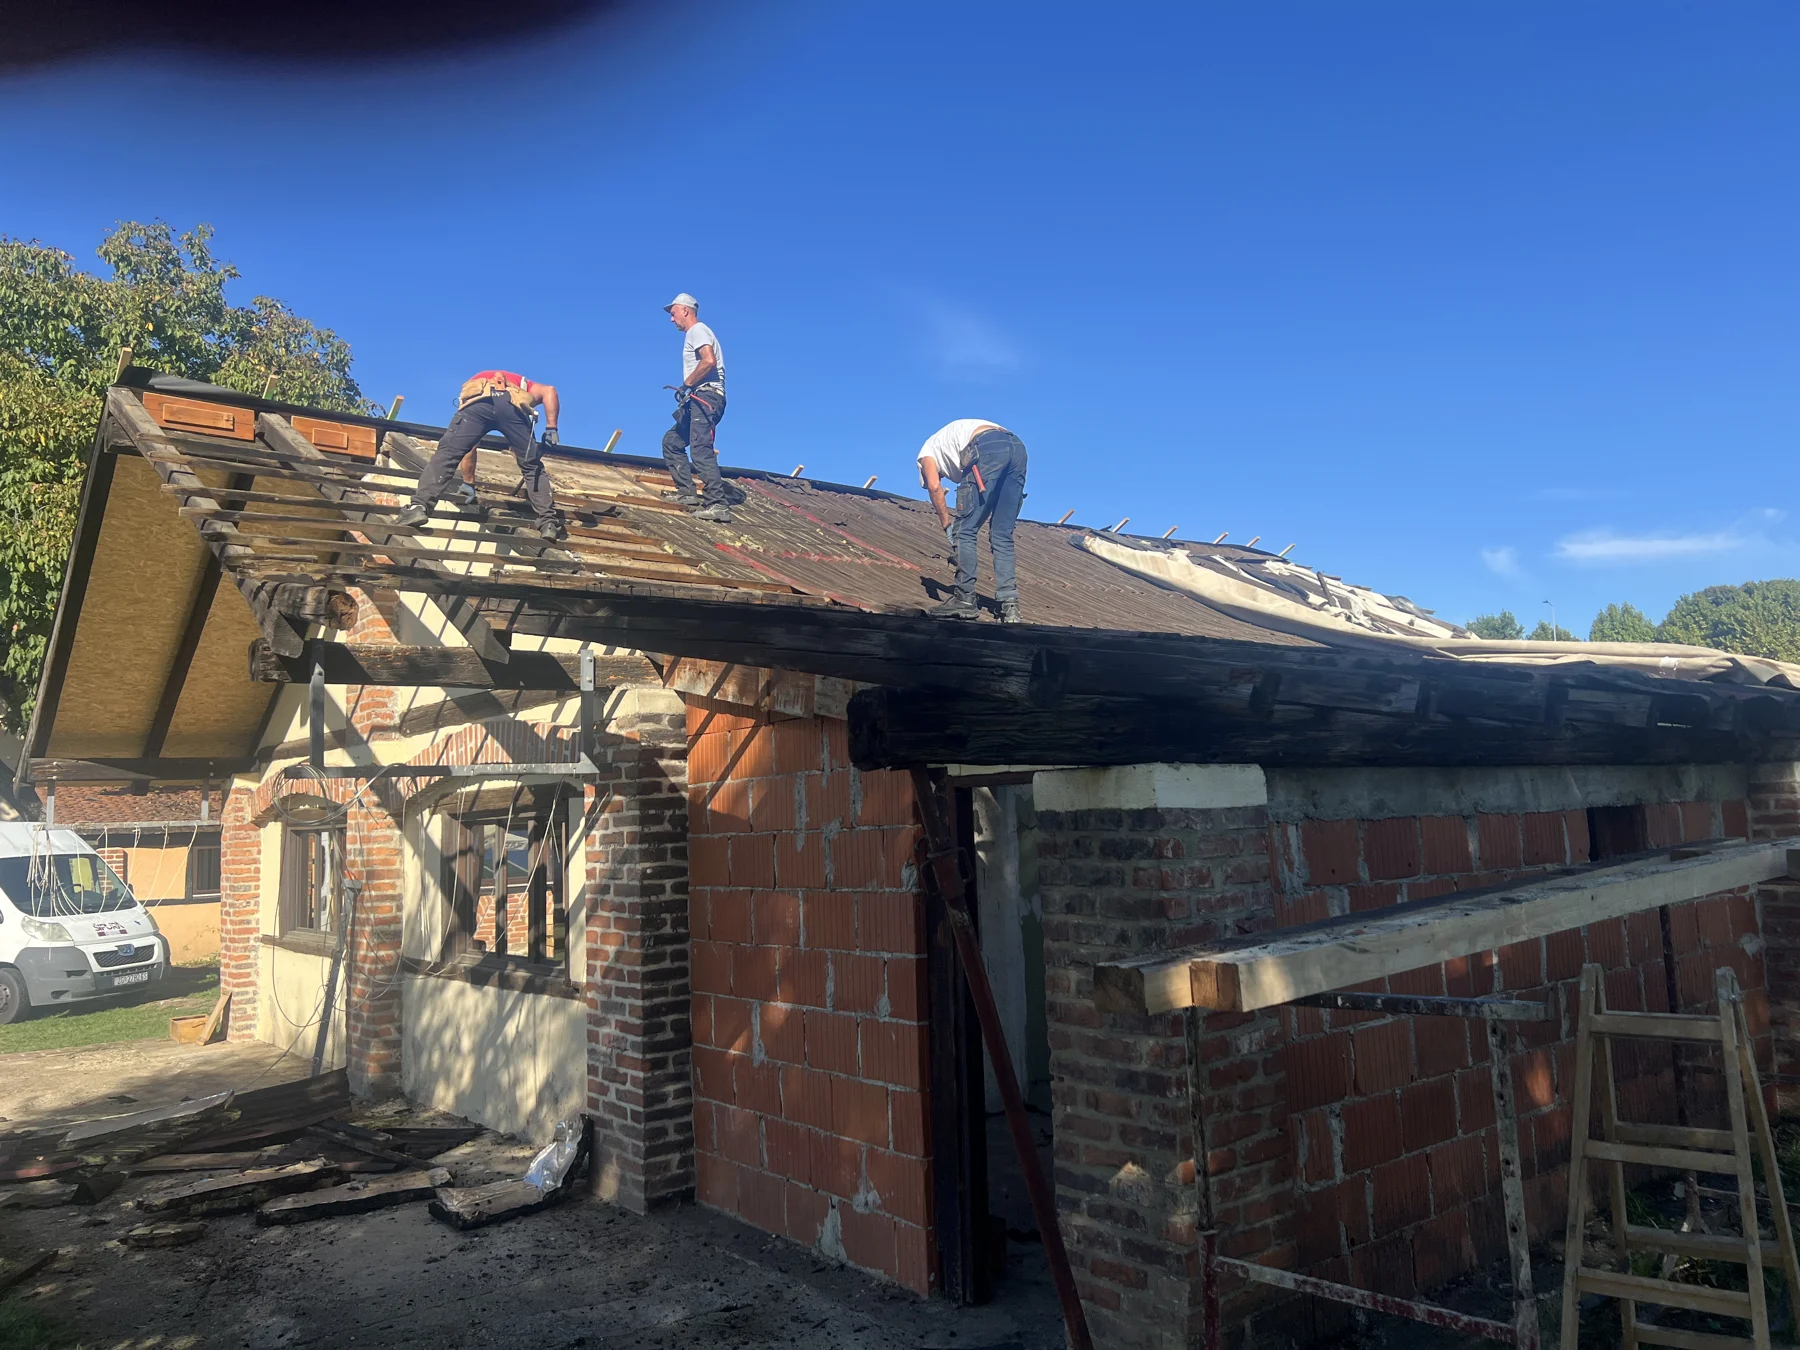
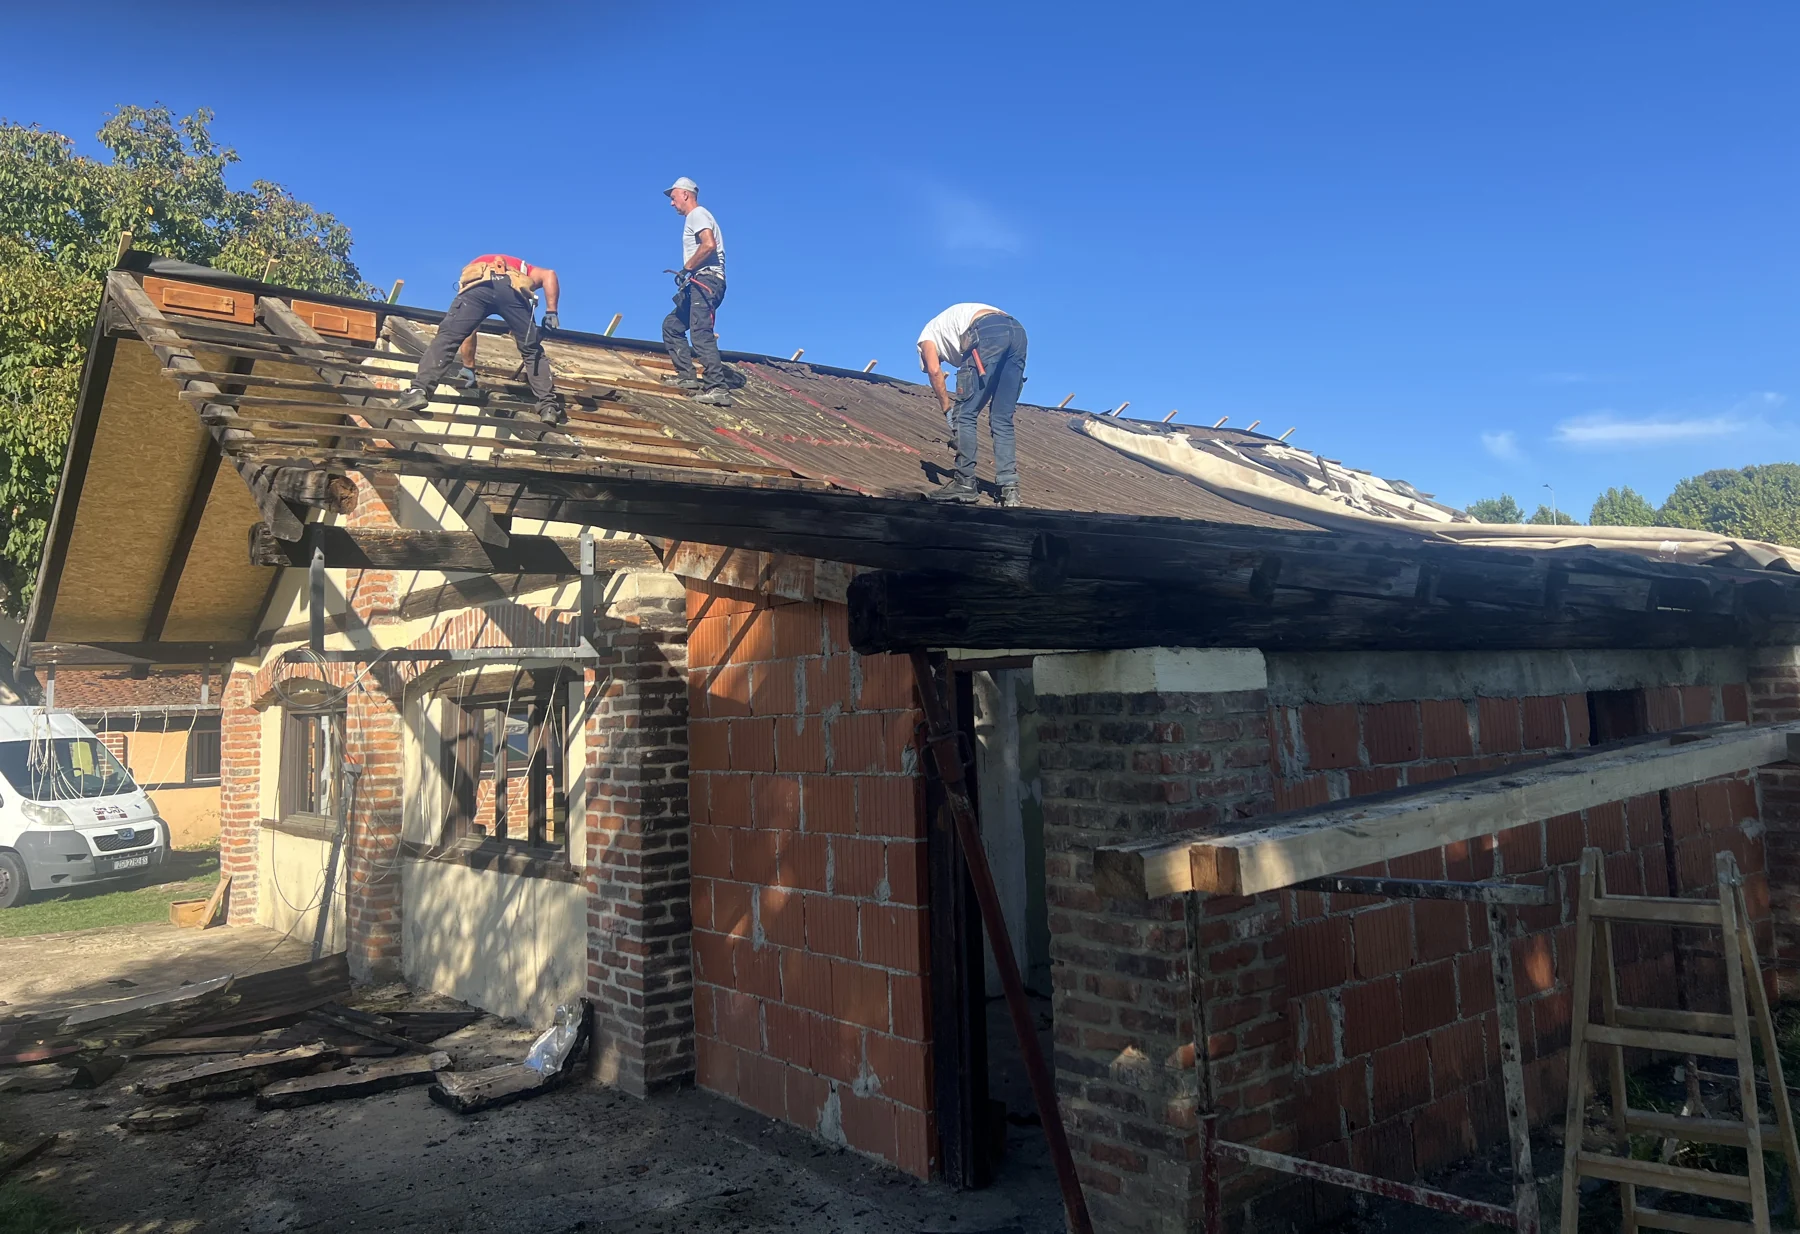
Refine isolated roof restoration photo test to preserve workers in crop

diff --git a/projekti-foto-test.html b/projekti-foto-test.html
@@ -1,1 +1,1 @@
-<!doctype html><html lang="hr"><head><meta charset="utf-8"><meta name="viewport" content="width=device-width,initial-scale=1"><meta name="robots" content="noindex,nofollow"><title>Izbor fotografija projekata — Pontes Salutis</title><link rel="stylesheet" href="site.css"></head><body class="pontes-preview"><main><section class="wrap page-intro"><p class="eyebrow">ZASEBAN FOTOGRAFSKI TEST</p><h1>Energija i infrastruktura.</h1><p class="lead">Usporedba fotografija iz arhive Varaždin. Postojeće stranice i fotografije na njima nisu promijenjene.</p><a class="text-link" href="#kartice">Usporedba kartica ↓</a></section><section class="wrap section compact"><h2>Energetska održivost Pontesa</h2><div class="prose"><p>Među 97 pregledanih fotografija iz ZIP arhive i postojećim fotografijama u assets nema dovoljno jasnog kadra za konačnu fotografiju energetskog projekta. Sadašnja privremena fotografija prikazana je u usporedbi ispod.</p><p>Fotografije krovova dokumentiraju obnovu. Nije potvrđeno da prikazuju predviđeno mjesto solarnog sustava, energetski pregled ili pripremu njegove ugradnje, pa ih ne predlažemo kao zamjenu za energiju.</p><h3>Što snimiti</h3><p>Horizontalnu fotografiju stvarno nabavljene solarne opreme, po mogućnosti uz osobu koja je pregledava. Drugi koristan kadar bio bi obilazak potvrđenog mjesta buduće instalacije sa stručnom osobom i krovom u pozadini. Snimiti šire, bez rezanja ljudi, u mekom dnevnom svjetlu. Fotografija i opis ne smiju sugerirati da je sustav već instaliran.</p></div></section><section class="wrap section compact" id="kartice"><p class="eyebrow">FORMAT KARTICE · INDEX.HTML I PROJEKTI.HTML</p><h2>Infrastruktura: referenca i tri kandidata.</h2><p>Kartice koriste postojeću mrežu projekata i omjer fotografije 3 : 2.</p><div class="cards project-grid"><article class="card project"><img src="assets/house.webp" alt="Sadašnji privremeni kadar objekta iz ptičje perspektive" style="object-position:50% 50%"><div class="card-body"><p class="eyebrow">REFERENCA</p><h3>Referenca — sadašnja privremena fotografija</h3><p>Trenutačno se koristi za obje teme. Prikazana je radi usporedbe, bez preporuke da trajno ostane.</p><p class="small-note">Položaj kadra: 50% 50% na svim širinama.</p></div></article><article class="card project"><img src="assets/photo-test/IMG_9740.webp" alt="Tri osobe rade na obnovi krova objekta" style="object-position:50% 100%"><div class="card-body"><p class="eyebrow">INFRASTRUKTURA</p><h3>Kandidat A — ljudi obnavljaju krov</h3><p>IMG_9740.HEIC · Najbolji kandidat za obje projektne kartice i glavnu fotografiju infrastrukture. Jasno povezuje ljude i obnovu. Slabost: tamni rub u gornjem lijevom kutu izvornika i duboke sjene; postojeći vodoravni formati uz niži izrez uklanjaju taj rub. Na užem prikazu ostaju vidljiva sva tri radnika.</p><p class="small-note">Položaj kadra: 50% 100% na svim širinama.</p></div></article><article class="card project"><img src="assets/photo-test/IMG_9839.webp" alt="Objekt s limenim krovnim pokrovom i vidljivim nedovršenim zidovima" style="object-position:50% 55%"><div class="card-body"><p class="eyebrow">INFRASTRUKTURA</p><h3>Kandidat B — objekt i krov</h3><p>IMG_9839.HEIC · Dobra pregledna fotografija infrastrukture za projektnu karticu ili dokumentiranje napretka. Slabost: nema ljudi, pa je slabija glavna fotografija od A. Ne prikazuje solarne panele i nije dokaz pripreme tog krova za solarni sustav.</p><p class="small-note">Položaj kadra: 50% 55% na svim širinama.</p></div></article><article class="card project"><img src="assets/photo-test/IMG_9853.webp" alt="Potkrovlje u uređenju s građevinskim pločama i alatom" style="object-position:50% 50%"><div class="card-body"><p class="eyebrow">INFRASTRUKTURA</p><h3>Kandidat C — uređenje unutarnjeg prostora</h3><p>IMG_9853.HEIC · Preporuka za sekundarnu fotografiju i dnevnik napretka unutar projekta. Jasno pokazuje stvarno uređenje prostora. Slabost: nema ljudi, kadar je dokumentaran i slabije predstavlja razvoj cijelog centra. Namjenu ove prostorije ne pretpostavljamo.</p><p class="small-note">Položaj kadra: 50% 50% na svim širinama.</p></div></article></div></section><section><div class="wrap section"><p class="eyebrow">FORMAT POJEDINAČNE PROJEKTNE STRANICE</p><h2>Iste fotografije u većem prikazu.</h2></div><h3 class="wrap">Referenca — sadašnja privremena fotografija</h3><div class="wrap project-detail"><img src="assets/house.webp" alt="Sadašnji privremeni kadar objekta iz ptičje perspektive" style="object-position:50% 50%"><aside><p>Trenutačno se koristi za obje teme. Prikazana je radi usporedbe, bez preporuke da trajno ostane.</p><p class="small-note">Isti format kao na projektnoj stranici: 480 px na desktopu, 400 px na tabletu i 320 px na mobitelu.</p></aside></div><h3 class="wrap">Kandidat A — ljudi obnavljaju krov</h3><div class="wrap project-detail"><img src="assets/photo-test/IMG_9740.webp" alt="Tri osobe rade na obnovi krova objekta" style="object-position:50% 100%"><aside><p>IMG_9740.HEIC · Najbolji kandidat za obje projektne kartice i glavnu fotografiju infrastrukture. Jasno povezuje ljude i obnovu. Slabost: tamni rub u gornjem lijevom kutu izvornika i duboke sjene; postojeći vodoravni formati uz niži izrez uklanjaju taj rub. Na užem prikazu ostaju vidljiva sva tri radnika.</p><p class="small-note">Isti format kao na projektnoj stranici: 480 px na desktopu, 400 px na tabletu i 320 px na mobitelu.</p></aside></div><h3 class="wrap">Kandidat B — objekt i krov</h3><div class="wrap project-detail"><img src="assets/photo-test/IMG_9839.webp" alt="Objekt s limenim krovnim pokrovom i vidljivim nedovršenim zidovima" style="object-position:50% 55%"><aside><p>IMG_9839.HEIC · Dobra pregledna fotografija infrastrukture za projektnu karticu ili dokumentiranje napretka. Slabost: nema ljudi, pa je slabija glavna fotografija od A. Ne prikazuje solarne panele i nije dokaz pripreme tog krova za solarni sustav.</p><p class="small-note">Isti format kao na projektnoj stranici: 480 px na desktopu, 400 px na tabletu i 320 px na mobitelu.</p></aside></div><h3 class="wrap">Kandidat C — uređenje unutarnjeg prostora</h3><div class="wrap project-detail"><img src="assets/photo-test/IMG_9853.webp" alt="Potkrovlje u uređenju s građevinskim pločama i alatom" style="object-position:50% 50%"><aside><p>IMG_9853.HEIC · Preporuka za sekundarnu fotografiju i dnevnik napretka unutar projekta. Jasno pokazuje stvarno uređenje prostora. Slabost: nema ljudi, kadar je dokumentaran i slabije predstavlja razvoj cijelog centra. Namjenu ove prostorije ne pretpostavljamo.</p><p class="small-note">Isti format kao na projektnoj stranici: 480 px na desktopu, 400 px na tabletu i 320 px na mobitelu.</p></aside></div></section><section class="wrap section compact"><h2>Preporuka</h2><p class="lead">Za infrastrukturu: kandidat A. Kandidati B i C korisni su kao dokumentacija napretka. Za energiju: snimiti novu, tematski potvrđenu fotografiju.</p><p>Ovo je samo usporedba. Nijedan kandidat nije postavljen na postojeće projektne stranice ili naslovnicu.</p><a class="text-link" href="projekti.html">Natrag na postojeći pregled projekata →</a></section></main></body></html>
+<!doctype html><html lang="hr"><head><meta charset="utf-8"><meta name="viewport" content="width=device-width,initial-scale=1"><meta name="robots" content="noindex,nofollow"><title>Izbor fotografija projekata — Pontes Salutis</title><link rel="stylesheet" href="site.css"></head><body class="pontes-preview"><main><section class="wrap page-intro"><p class="eyebrow">ZASEBAN FOTOGRAFSKI TEST</p><h1>Energija i infrastruktura.</h1><p class="lead">Usporedba fotografija iz arhive Varaždin. Postojeće stranice i fotografije na njima nisu promijenjene.</p><a class="text-link" href="#kartice">Usporedba kartica ↓</a></section><section class="wrap section compact"><h2>Energetska održivost Pontesa</h2><div class="prose"><p>Među 97 pregledanih fotografija iz ZIP arhive i postojećim fotografijama u assets nema dovoljno jasnog kadra za konačnu fotografiju energetskog projekta. Sadašnja privremena fotografija prikazana je u usporedbi ispod.</p><p>Fotografije krovova dokumentiraju obnovu. Nije potvrđeno da prikazuju predviđeno mjesto solarnog sustava, energetski pregled ili pripremu njegove ugradnje, pa ih ne predlažemo kao zamjenu za energiju.</p><h3>Što snimiti</h3><p>Horizontalnu fotografiju stvarno nabavljene solarne opreme, po mogućnosti uz osobu koja je pregledava. Drugi koristan kadar bio bi obilazak potvrđenog mjesta buduće instalacije sa stručnom osobom i krovom u pozadini. Snimiti šire, bez rezanja ljudi, u mekom dnevnom svjetlu. Fotografija i opis ne smiju sugerirati da je sustav već instaliran.</p></div></section><section class="wrap section compact" id="kartice"><p class="eyebrow">FORMAT KARTICE · INDEX.HTML I PROJEKTI.HTML</p><h2>Infrastruktura: referenca i tri kandidata.</h2><p>Kartice koriste postojeću mrežu projekata i omjer fotografije 3 : 2.</p><div class="cards project-grid"><article class="card project"><img src="assets/house.webp" alt="Sadašnji privremeni kadar objekta iz ptičje perspektive" style="object-position:50% 50%"><div class="card-body"><p class="eyebrow">REFERENCA</p><h3>Referenca — sadašnja privremena fotografija</h3><p>Trenutačno se koristi za obje teme. Prikazana je radi usporedbe, bez preporuke da trajno ostane.</p><p class="small-note">Položaj kadra: 50% 50% na svim širinama.</p></div></article><article class="card project"><img src="assets/photo-test/IMG_9740.webp" alt="Tri osobe rade na obnovi krova objekta" style="object-position:50% 65%"><div class="card-body"><p class="eyebrow">INFRASTRUKTURA</p><h3>Kandidat A — ljudi obnavljaju krov</h3><p>IMG_9740.HEIC · Najbolji kandidat za obje projektne kartice i glavnu fotografiju infrastrukture. Jasno povezuje ljude i obnovu. Slabost: duboke sjene i tamni rub u izvorniku. Testna kopija skraćena je samo pri vrhu (260 px od 3024 px) kako bi se uklonio taj rub; bez filtara. Sva tri radnika ostaju u kadru.</p><p class="small-note">Položaj kadra: 50% 65% na svim širinama.</p></div></article><article class="card project"><img src="assets/photo-test/IMG_9839.webp" alt="Objekt s limenim krovnim pokrovom i vidljivim nedovršenim zidovima" style="object-position:50% 55%"><div class="card-body"><p class="eyebrow">INFRASTRUKTURA</p><h3>Kandidat B — objekt i krov</h3><p>IMG_9839.HEIC · Dobra pregledna fotografija infrastrukture za projektnu karticu ili dokumentiranje napretka. Slabost: nema ljudi, pa je slabija glavna fotografija od A. Ne prikazuje solarne panele i nije dokaz pripreme tog krova za solarni sustav.</p><p class="small-note">Položaj kadra: 50% 55% na svim širinama.</p></div></article><article class="card project"><img src="assets/photo-test/IMG_9853.webp" alt="Potkrovlje u uređenju s građevinskim pločama i alatom" style="object-position:50% 50%"><div class="card-body"><p class="eyebrow">INFRASTRUKTURA</p><h3>Kandidat C — uređenje unutarnjeg prostora</h3><p>IMG_9853.HEIC · Preporuka za sekundarnu fotografiju i dnevnik napretka unutar projekta. Jasno pokazuje stvarno uređenje prostora. Slabost: nema ljudi, kadar je dokumentaran i slabije predstavlja razvoj cijelog centra. Namjenu ove prostorije ne pretpostavljamo.</p><p class="small-note">Položaj kadra: 50% 50% na svim širinama.</p></div></article></div></section><section><div class="wrap section"><p class="eyebrow">FORMAT POJEDINAČNE PROJEKTNE STRANICE</p><h2>Iste fotografije u većem prikazu.</h2></div><h3 class="wrap">Referenca — sadašnja privremena fotografija</h3><div class="wrap project-detail"><img src="assets/house.webp" alt="Sadašnji privremeni kadar objekta iz ptičje perspektive" style="object-position:50% 50%"><aside><p>Trenutačno se koristi za obje teme. Prikazana je radi usporedbe, bez preporuke da trajno ostane.</p><p class="small-note">Isti format kao na projektnoj stranici: 480 px na desktopu, 400 px na tabletu i 320 px na mobitelu.</p></aside></div><h3 class="wrap">Kandidat A — ljudi obnavljaju krov</h3><div class="wrap project-detail"><img src="assets/photo-test/IMG_9740.webp" alt="Tri osobe rade na obnovi krova objekta" style="object-position:50% 65%"><aside><p>IMG_9740.HEIC · Najbolji kandidat za obje projektne kartice i glavnu fotografiju infrastrukture. Jasno povezuje ljude i obnovu. Slabost: duboke sjene i tamni rub u izvorniku. Testna kopija skraćena je samo pri vrhu (260 px od 3024 px) kako bi se uklonio taj rub; bez filtara. Sva tri radnika ostaju u kadru.</p><p class="small-note">Isti format kao na projektnoj stranici: 480 px na desktopu, 400 px na tabletu i 320 px na mobitelu.</p></aside></div><h3 class="wrap">Kandidat B — objekt i krov</h3><div class="wrap project-detail"><img src="assets/photo-test/IMG_9839.webp" alt="Objekt s limenim krovnim pokrovom i vidljivim nedovršenim zidovima" style="object-position:50% 55%"><aside><p>IMG_9839.HEIC · Dobra pregledna fotografija infrastrukture za projektnu karticu ili dokumentiranje napretka. Slabost: nema ljudi, pa je slabija glavna fotografija od A. Ne prikazuje solarne panele i nije dokaz pripreme tog krova za solarni sustav.</p><p class="small-note">Isti format kao na projektnoj stranici: 480 px na desktopu, 400 px na tabletu i 320 px na mobitelu.</p></aside></div><h3 class="wrap">Kandidat C — uređenje unutarnjeg prostora</h3><div class="wrap project-detail"><img src="assets/photo-test/IMG_9853.webp" alt="Potkrovlje u uređenju s građevinskim pločama i alatom" style="object-position:50% 50%"><aside><p>IMG_9853.HEIC · Preporuka za sekundarnu fotografiju i dnevnik napretka unutar projekta. Jasno pokazuje stvarno uređenje prostora. Slabost: nema ljudi, kadar je dokumentaran i slabije predstavlja razvoj cijelog centra. Namjenu ove prostorije ne pretpostavljamo.</p><p class="small-note">Isti format kao na projektnoj stranici: 480 px na desktopu, 400 px na tabletu i 320 px na mobitelu.</p></aside></div></section><section class="wrap section compact"><h2>Preporuka</h2><p class="lead">Za infrastrukturu: kandidat A. Kandidati B i C korisni su kao dokumentacija napretka. Za energiju: snimiti novu, tematski potvrđenu fotografiju.</p><p>Ovo je samo usporedba. Nijedan kandidat nije postavljen na postojeće projektne stranice ili naslovnicu.</p><a class="text-link" href="projekti.html">Natrag na postojeći pregled projekata →</a></section></main></body></html>
